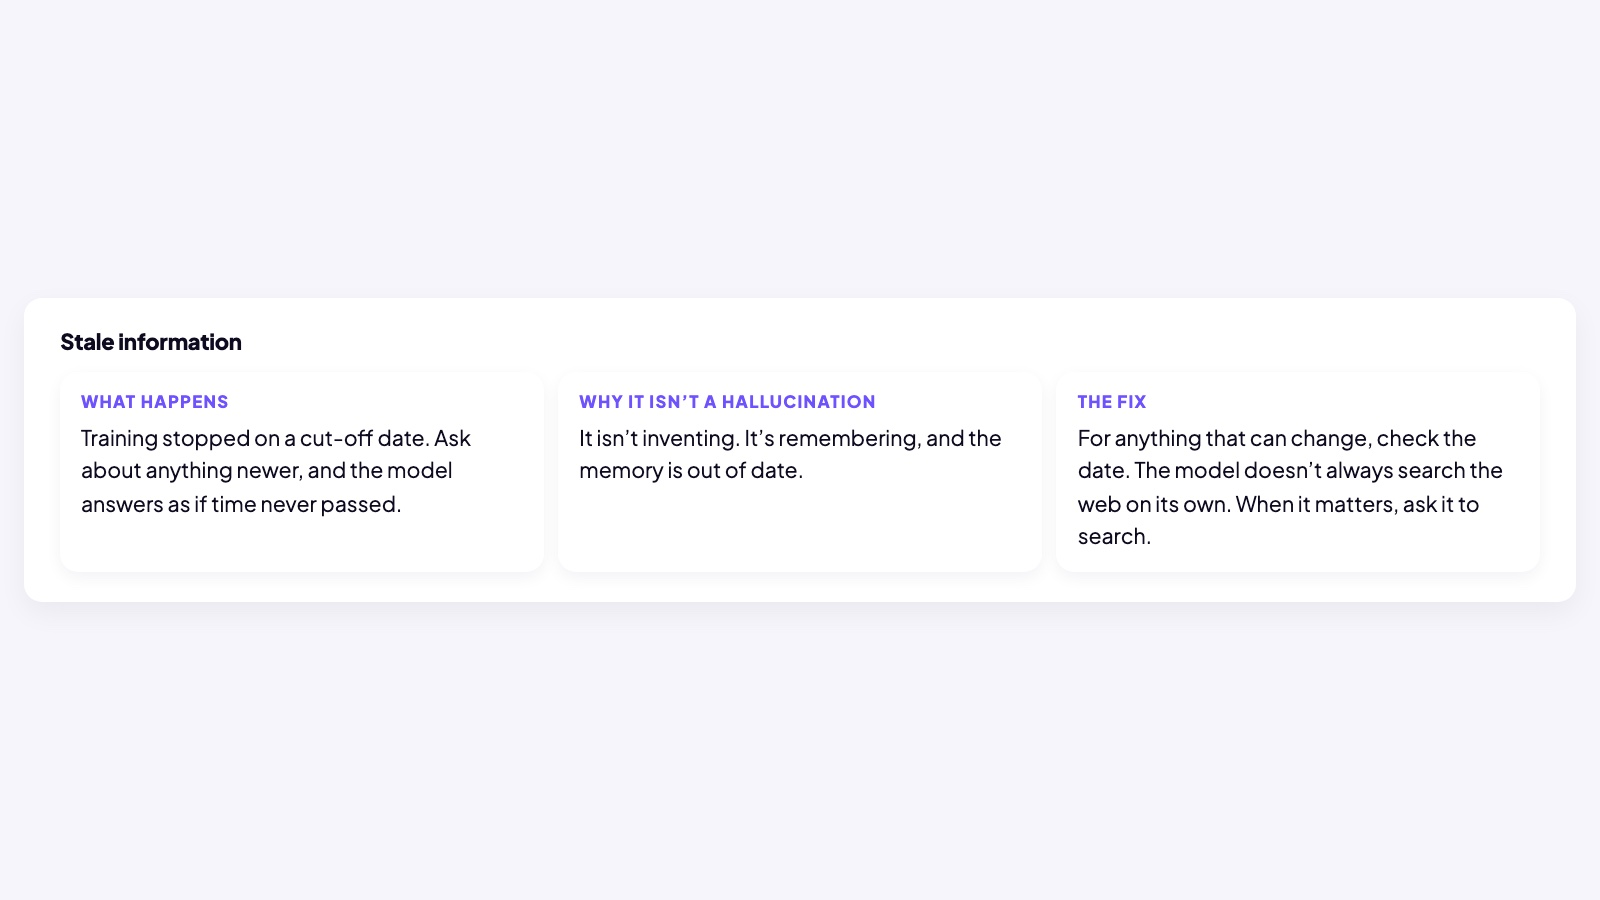
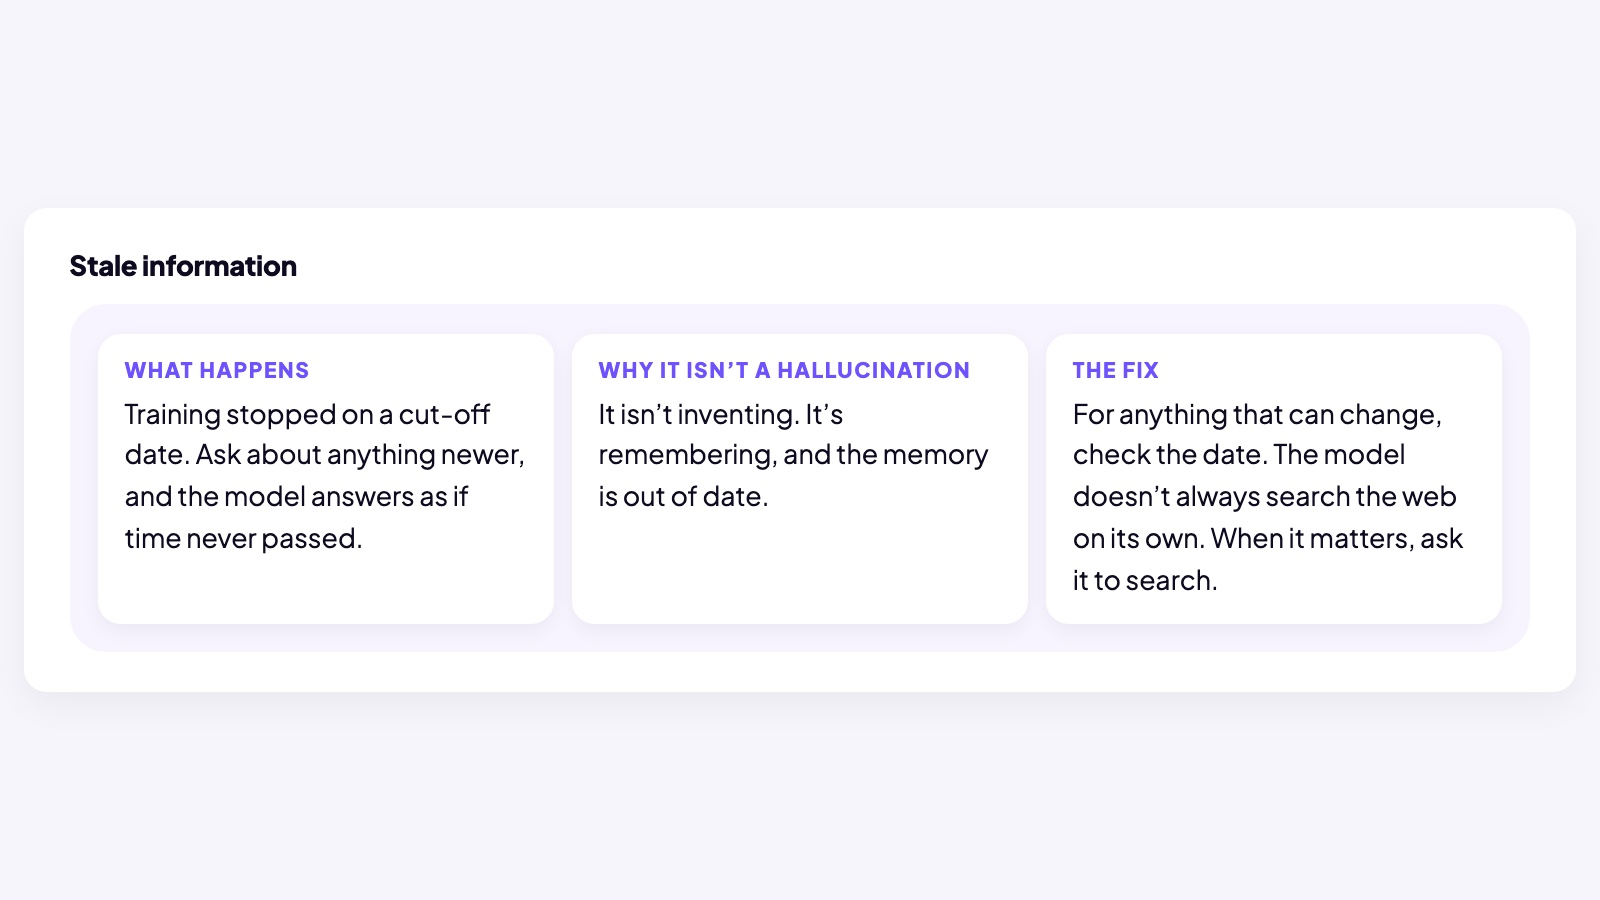
Kit boards match the page design: WRAP_UP for capture-board.js
Owner-flagged: training-bias-1 shipped without its lavender ShowcaseBox
band. Root cause is the same innermost-match defect fixed in
capture_board_states.js on 2026-08-04 — capture-board.js (the kit-board
tool) never got the fix, so it lifted grids out of their lesson wrapper.
Added the same WRAP_UP env; recaptured the three training-bias boards
and fake-trap's four-reasons with their bands, all at card-width 958 so
the band renders at the page's 902px column — same layout (four-reasons
back to its true 2x2) and same line wraps as the page.

diff --git a/scripts/capture-board.js b/scripts/capture-board.js
@@ -26,6 +26,15 @@ const COMPOSE = `(function(){
   var best = cands.filter(function(c){ return c.textContent.length === min; });
   best.sort(function(a, b){ return depth(b) - depth(a); });
   var el = best[0];
+  // WRAP_UP: walk N ancestors up so the capture keeps the lesson's own wrapper
+  // (e.g. the ShowcaseBox/NumberedRows lavender band) instead of lifting the
+  // inner grid onto the card — same owner rule and same fix as
+  // capture_board_states.js got 2026-08-04; this tool missed it until a kit
+  // board shipped without its band (training-bias mechanisms, 2026-08-06).
+  var up = ${Number(process.env.WRAP_UP || 0)};
+  for (var u = 0; u < up; u++) {
+    if (el.parentElement && el.parentElement !== document.body) el = el.parentElement;
+  }
   var card = document.createElement("div");
   // flex-shrink:0 — without it the card is a shrinkable flex item in the 800px
   // wrap, so any --card-width above ~800 silently lays out at viewport width and
